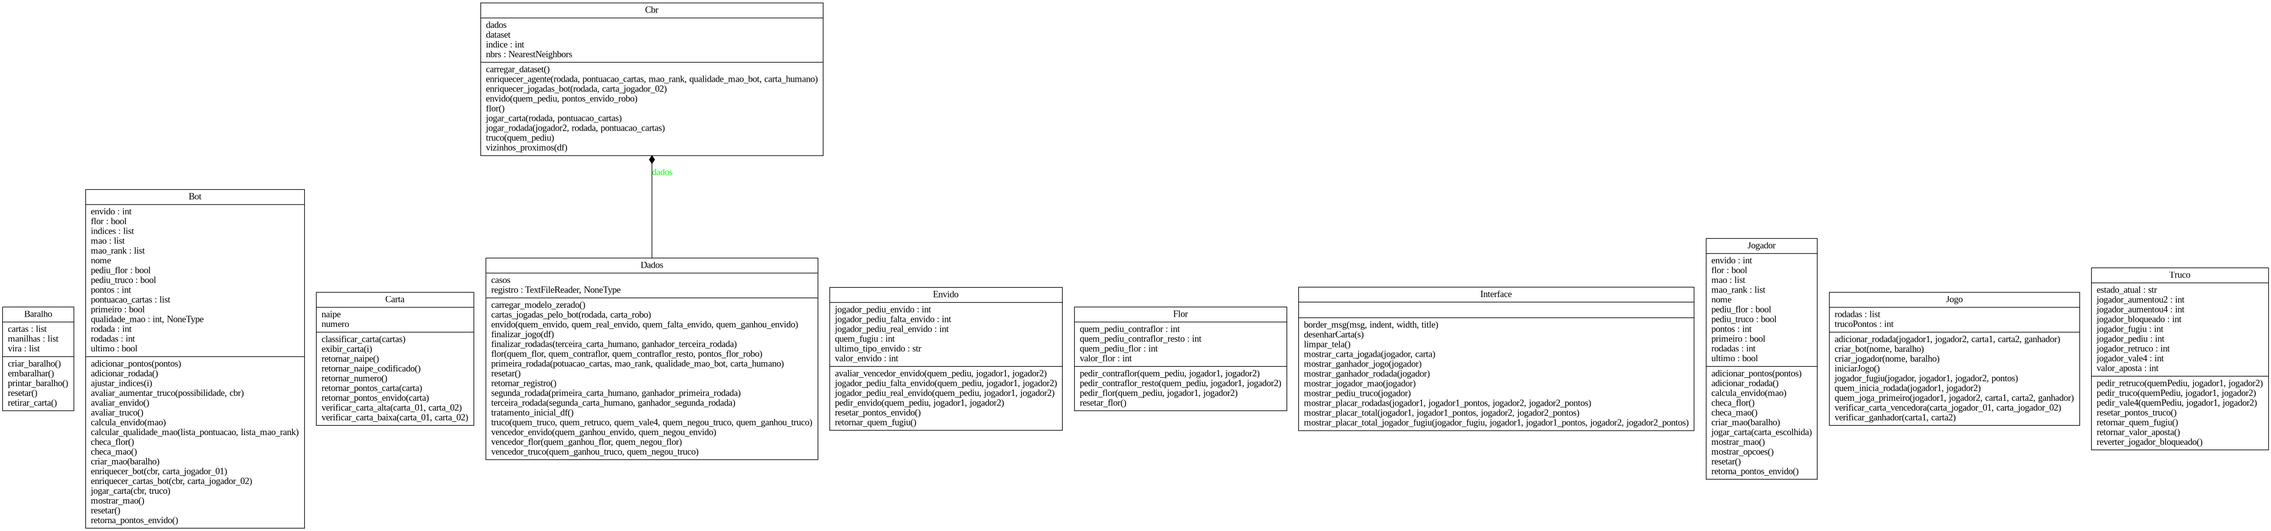
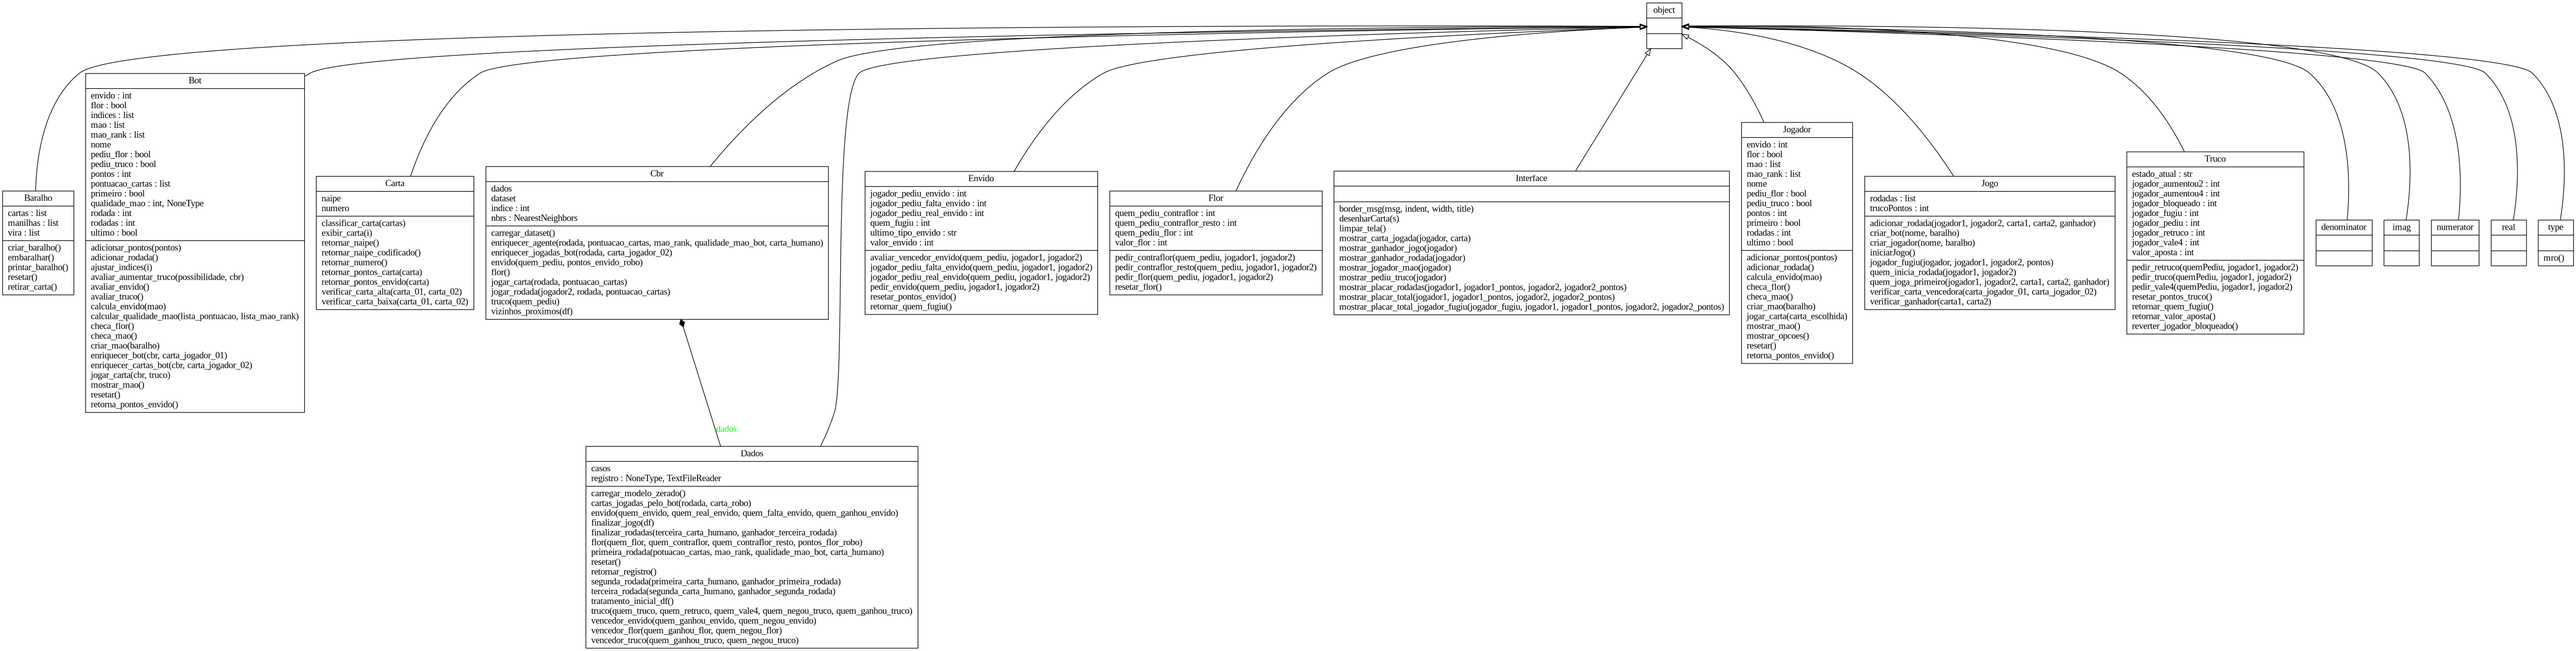
Atualização no UML e nos comentários dos métodos

diff --git a/truco/dados.py b/truco/dados.py
@@ -3,14 +3,13 @@ import os
 
 class Dados():
     def __init__(self):
+        self.colunas = ['idMao', 'jogadorMao', 'cartaAltaRobo', 'cartaMediaRobo', 'cartaBaixaRobo', 'cartaAltaHumano', 'cartaMediaHumano', 'cartaBaixaHumano', 'primeiraCartaRobo', 'primeiraCartaHumano', 'segundaCartaRobo', 'segundaCartaHumano', 'terceiraCartaRobo', 'terceiraCartaHumano', 'ganhadorPrimeiraRodada', 'ganhadorSegundaRodada', 'ganhadorTerceiraRodada', 'quemPediuEnvido', 'quemPediuFaltaEnvido', 'quemPediuRealEnvido', 'pontosEnvidoRobo', 'pontosEnvidoHumano', 'quemNegouEnvido', 'quemGanhouEnvido', 'quemFlor', 'quemContraFlor', 'quemContraFlorResto', 'quemNegouFlor', 'pontosFlorRobo', 'pontosFlorHumano', 'quemGanhouFlor', 'quemEscondeuPontosEnvido', 'quemEscondeuPontosFlor', 'quemTruco', 'quemRetruco', 'quemValeQuatro', 'quemNegouTruco', 'quemGanhouTruco','quemEnvidoEnvido', 'quemFlor', 'naipeCartaAltaRobo', 'naipeCartaMediaRobo', 'naipeCartaBaixaRobo', 'naipeCartaAltaHumano', 'naipeCartaMediaHumano', 'naipeCartaBaixaHumano', 'naipePrimeiraCartaRobo', 'naipePrimeiraCartaHumano', 'naipeSegundaCartaRobo', 'naipeSegundaCartaHumano', 'naipeTerceiraCartaRobo', 'naipeTerceiraCartaHumano', 'qualidadeMaoRobo', 'qualidadeMaoHumano']
+        self.registro = self.carregar_modelo_zerado()
         self.casos = self.tratamento_inicial_df()
-        self.registro = pd.read_csv('modelo_registro.csv', index_col='idMao').fillna(-100)
-
 
     def tratamento_inicial_df(self):
         """Tratamento de dados do dataframe que será utilizado para alimentar a base de casos"""
-        colunas = ['idMao', 'jogadorMao', 'cartaAltaRobo', 'cartaMediaRobo', 'cartaBaixaRobo', 'cartaAltaHumano', 'cartaMediaHumano', 'cartaBaixaHumano', 'primeiraCartaRobo', 'primeiraCartaHumano', 'segundaCartaRobo', 'segundaCartaHumano', 'terceiraCartaRobo', 'terceiraCartaHumano', 'ganhadorPrimeiraRodada', 'ganhadorSegundaRodada', 'ganhadorTerceiraRodada', 'quemPediuEnvido', 'quemPediuFaltaEnvido', 'quemPediuRealEnvido', 'pontosEnvidoRobo', 'pontosEnvidoHumano', 'quemNegouEnvido', 'quemGanhouEnvido', 'quemFlor', 'quemContraFlor', 'quemContraFlorResto', 'quemNegouFlor', 'pontosFlorRobo', 'pontosFlorHumano', 'quemGanhouFlor', 'quemEscondeuPontosEnvido', 'quemEscondeuPontosFlor', 'quemTruco', 'quemRetruco', 'quemValeQuatro', 'quemNegouTruco', 'quemGanhouTruco','quemEnvidoEnvido', 'quemFlor', 'naipeCartaAltaRobo', 'naipeCartaMediaRobo', 'naipeCartaBaixaRobo', 'naipeCartaAltaHumano', 'naipeCartaMediaHumano', 'naipeCartaBaixaHumano', 'naipePrimeiraCartaRobo', 'naipePrimeiraCartaHumano', 'naipeSegundaCartaRobo', 'naipeSegundaCartaHumano', 'naipeTerceiraCartaRobo', 'naipeTerceiraCartaHumano', 'qualidadeMaoRobo', 'qualidadeMaoHumano']
-        df = pd.read_csv('dbtrucoimitacao_maos.csv', usecols=colunas, index_col='idMao')
+        df = pd.read_csv('dbtrucoimitacao_maos.csv', usecols=self.colunas, index_col='idMao').fillna(-100)
         colunas_string = [
             'naipeCartaAltaRobo', 'naipeCartaMediaRobo','naipeCartaBaixaRobo', 'naipeCartaAltaHumano','naipeCartaMediaHumano', 'naipeCartaBaixaHumano','naipePrimeiraCartaRobo', 'naipePrimeiraCartaHumano',	'naipeSegundaCartaRobo', 'naipeSegundaCartaHumano','naipeTerceiraCartaRobo', 'naipeTerceiraCartaHumano',
             ]
@@ -19,15 +18,16 @@ class Dados():
         df.replace('OURO', '2', inplace=True)
         df.replace('BASTOS', '3', inplace=True)
         df.replace('COPAS', '4', inplace=True)
-        df[colunas_string] = df[colunas_string].fillna(0)
+        df[colunas_string] = df[colunas_string].fillna(-66)
         # df.loc[:, df.dtypes == object] = df.loc[:, df.dtypes == object].astype(int)
         # df = df[df.columns].astype(int)
-        df[colunas_string] = df[colunas_string].astype('int16')
-        df = df[df > 0] # Desativar essa condição para obter um Bot que vai mais vezes ao baralho
+        df[colunas_int] = df[colunas_int].astype('int16')
+        # df = df[colunas_int] > 0 # Desativar essa condição para obter um Bot que vai mais vezes ao baralho
         return df
 
 
     def cartas_jogadas_pelo_bot(self, rodada, carta_robo):
+        """Adicionada as cartas jogadas pelo bot a base de casos"""
         if (rodada == 'primeira'):
             self.registro.primeiraCartaRobo = carta_robo.retornar_numero()
             self.registro.naipePrimeiraCartaRobo = carta_robo.retornar_naipe_codificado()
@@ -40,7 +40,8 @@ class Dados():
             self.registro.terceiraCartaRobo = carta_robo.retornar_numero()
             self.registro.naipeTerceiraCartaRobo = carta_robo.retornar_naipe_codificado()
 
-    def primeira_rodada(self, potuacao_cartas, mao_rank, qualidade_mao_bot, carta_humano):  
+    def primeira_rodada(self, potuacao_cartas, mao_rank, qualidade_mao_bot, carta_humano):
+        """Adiciona na base de casos as cartas jogadas pelo bot na primeira rodada"""
         self.registro.jogadorMao = 1
         self.registro.cartaAltaRobo = potuacao_cartas[mao_rank.index("Alta")]
         self.registro.cartaMediaRobo = potuacao_cartas[mao_rank.index("Media")]
@@ -54,36 +55,42 @@ class Dados():
 
 
     def segunda_rodada(self, primeira_carta_humano, ganhador_primeira_rodada):
+        """Adiciona na base de casos as cartas jogadas pelo oponente na segunda rodada"""
         self.registro.ganhadorPrimeiraRodada = ganhador_primeira_rodada
         self.registro.primeiraCartaHumano = primeira_carta_humano.retornar_numero()
         self.registro.naipePrimeiraCartaHumano = primeira_carta_humano.retornar_naipe_codificado()
     
 
     def terceira_rodada(self, segunda_carta_humano, ganhador_segunda_rodada):
+        """Adiciona na base de casos as cartas jogadas pelo oponente na segunda rodada"""
         self.registro.ganhadorSegundaRodada = ganhador_segunda_rodada
         self.registro.SegundaCartaHumano = segunda_carta_humano.retornar_numero()
         self.registro.naipeSegundaCartaHumano = segunda_carta_humano.retornar_naipe_codificado()
 
 
     def finalizar_rodadas(self, terceira_carta_humano, ganhador_terceira_rodada):
+        """Adiciona na base de casos as cartas jogadas pelo oponente na terceira rodada"""
         self.registro.ganhadorTerceiraRodada = ganhador_terceira_rodada
         self.registro.terceiraCartaHumano = terceira_carta_humano.retornar_numero()
         self.registro.naipeTerceiraCartaHumano = terceira_carta_humano.retornar_naipe_codificado()
 
 
     def envido(self, quem_envido, quem_real_envido, quem_falta_envido, quem_ganhou_envido):
+        """Adiciona na base de casos as informações referentes ao envido"""
         self.registro.quemEnvido = quem_envido
         self.registro.quemRealEnvido = quem_real_envido
         self.registro.quemFaltaEnvido = quem_falta_envido
 
 
     def truco(self, quem_truco, quem_retruco, quem_vale4, quem_negou_truco, quem_ganhou_truco):
+        """Adiciona na base de casos as informações referentes ao truco"""
         self.registro.quemTruco = quem_truco
         self.registro.quemRetruco = quem_retruco
         self.registro.quemValeQuatro = quem_vale4
 
 
     def flor(self, quem_flor, quem_contraflor, quem_contraflor_resto, pontos_flor_robo):
+        """Adiciona na base de casos as informações referentes a flor"""
         self.registro.quemGanhouFlor = 2
         self.registro.quemFlor = quem_flor
         self.registro.quemContraFlor = quem_contraflor
@@ -92,37 +99,46 @@ class Dados():
     
 
     def vencedor_envido(self, quem_ganhou_envido, quem_negou_envido):
+        """Adiciona na base de casos as informações referentes ao truco"""
         self.registro.quemGanhouEnvido = quem_ganhou_envido
         self.registro.quemNegouEnvido = quem_negou_envido
 
 
     def vencedor_truco(self, quem_ganhou_truco, quem_negou_truco):
+        """Adiciona na base de casos as informações referentes ao vencedor do truco"""
         self.registro.quemNegouTruco = quem_negou_truco
         self.registro.quemGanhouTruco = quem_ganhou_truco
 
 
     def vencedor_flor(self, quem_ganhou_flor, quem_negou_flor):
+        """Adiciona na base de casos as informações referentes ao vencedor da flor"""
         self.registro.quemGanhouFlor = quem_ganhou_flor
         self.registro.quemNegouFlor = quem_negou_flor
 
 
     def carregar_modelo_zerado(self):
-        self.registro = pd.read_csv('../modelo_registro.csv', index_col='idMao')
+        """Carrega um dataframe zerado, para ser utilizado como modelo de caso."""
+        return pd.read_csv('modelo_registro.csv', usecols=self.colunas, index_col='idMao')
 
 
     def retornar_registro(self):
+        """Retorna o registro modelo de caso."""
         return self.registro
    
+
+    def retornar_casos(self):
+        """Retorna os casos."""
+        return self.casos
    
     def finalizar_jogo(self, df):
+        """Método para salvar as jogadas da partida em um csv."""
         if not(os.path.isfile('jogadas.csv')):
             df.to_csv('jogadas.csv', header=df.columns)
         else:
             df.to_csv('jogadas.csv', mode='a', header=False)
 
-        # self.registro.to_csv('jogadas.csv')
-
 
     def resetar(self):
+        """Resetar variáveis ligadas a rodada."""
         self.casos = self.tratamento_inicial_df()
-        self.registro = pd.read_csv('modelo_registro.csv', index_col='idMao')
+        self.registro = self.carregar_modelo_zerado()

diff --git a/truco/cbr.py b/truco/cbr.py
@@ -5,17 +5,17 @@ from .pontos import MANILHA, CARTAS_VALORES
 from .dados import Dados
 
 class Cbr():
-
     def __init__(self):
         self.indice = 0
-        self.dataset = self.carregar_dataset()
         self.dados = Dados()
+        self.dataset = self.dados.retornar_casos()
         # self.dados = self.retornarSimilares()
         self.nbrs = self.vizinhos_proximos()
 
 
     def carregar_dataset(self):
-        df = pd.read_csv('dbtrucoimitacao_maos.csv', index_col='idMao').fillna(-66)
+        """Carrega o dataset, caso necessário"""
+        df = pd.read_csv('dbtrucoimitacao_maos.csv', index_col='idMao').fillna(-100)
         df.replace('ESPADAS', '1', inplace=True)
         df.replace('OURO', '2', inplace=True)
         df.replace('BASTOS', '3', inplace=True)
@@ -24,12 +24,14 @@ class Cbr():
 
 
     def vizinhos_proximos(self, df=None):
+        """Cálculo dos 100 Nearest Neighbors."""
         if (df is None):
             return NearestNeighbors(n_neighbors=100, algorithm='ball_tree').fit(self.dataset)
         return NearestNeighbors(n_neighbors=100, algorithm='ball_tree').fit(df)
 
 
     def jogar_carta(self, rodada, pontuacao_cartas):
+        """Método que considera as jogadas em que o bot saiu vitorioso e retorna a pontuação mais próxima a ser jogada em determinada rodada."""
         registro = self.dados.retornar_registro()
         warnings.simplefilter(action='ignore', category=UserWarning)
         distancias, indices = self.nbrs.kneighbors((registro.to_numpy().reshape(1, -1)))
@@ -51,6 +53,7 @@ class Cbr():
         return pontuacao_cartas.index(int(carta_escolhida))
 
     def truco(self, quem_pediu):
+        """Método que considera o pedido de truco e retorna as opções para aceitar, aumentar ou fugir."""
         registro = self.dados.retornar_registro()
         warnings.simplefilter(action='ignore', category=UserWarning)
         distancias, indices = self.nbrs.kneighbors((registro.to_numpy().reshape(1, -1)))
@@ -72,6 +75,7 @@ class Cbr():
 
 
     def envido(self, quem_pediu, pontos_envido_robo):
+        """Método que considera o pedido de envido e retorna as opções para aceitar, pedir real envido, falta envido ou fugir."""
         registro = self.dados.retornar_registro()
         warnings.simplefilter(action='ignore', category=UserWarning)
         distancias, indices = self.nbrs.kneighbors((registro.to_numpy().reshape(1, -1)))
@@ -98,19 +102,8 @@ class Cbr():
 
         return None
 
-    def flor(self):
-        pass
-
-
-    def jogar_rodada(self, jogador2, rodada, pontuacao_cartas):
-
-        # truco = self.truco(jogador2)
-        # if (truco is True):
-        #     return 4
-
-        return self.jogar_carta(rodada, pontuacao_cartas)
-
     def enriquecer_agente(self, rodada=None, pontuacao_cartas=None, mao_rank=None, qualidade_mao_bot=None, carta_humano=None):
+        """Controlador do método da classe dados, que enriquecerá o conhecimento do bot com a carta jogada pelo humano."""
         if (rodada == 1):
             self.dados.primeira_rodada(pontuacao_cartas, mao_rank, qualidade_mao_bot, carta_humano)
         # if (rodada == 2):
@@ -119,7 +112,7 @@ class Cbr():
         #     self.dados.terceira_rodada(carta_humano, ganhador)
 
     def enriquecer_jogadas_bot(self, rodada, carta_jogador_02):
-        """Controlador do submétodo para enriquecer as jogadas do bot"""
+        """Controlador do método da classe dados, que enriquecerá o conhecimento do bot com a carta a qual ele jogou."""
         if (rodada == 2):
             self.dados.cartas_jogadas_pelo_bot('primeira', carta_jogador_02)
         if (rodada == 3):
